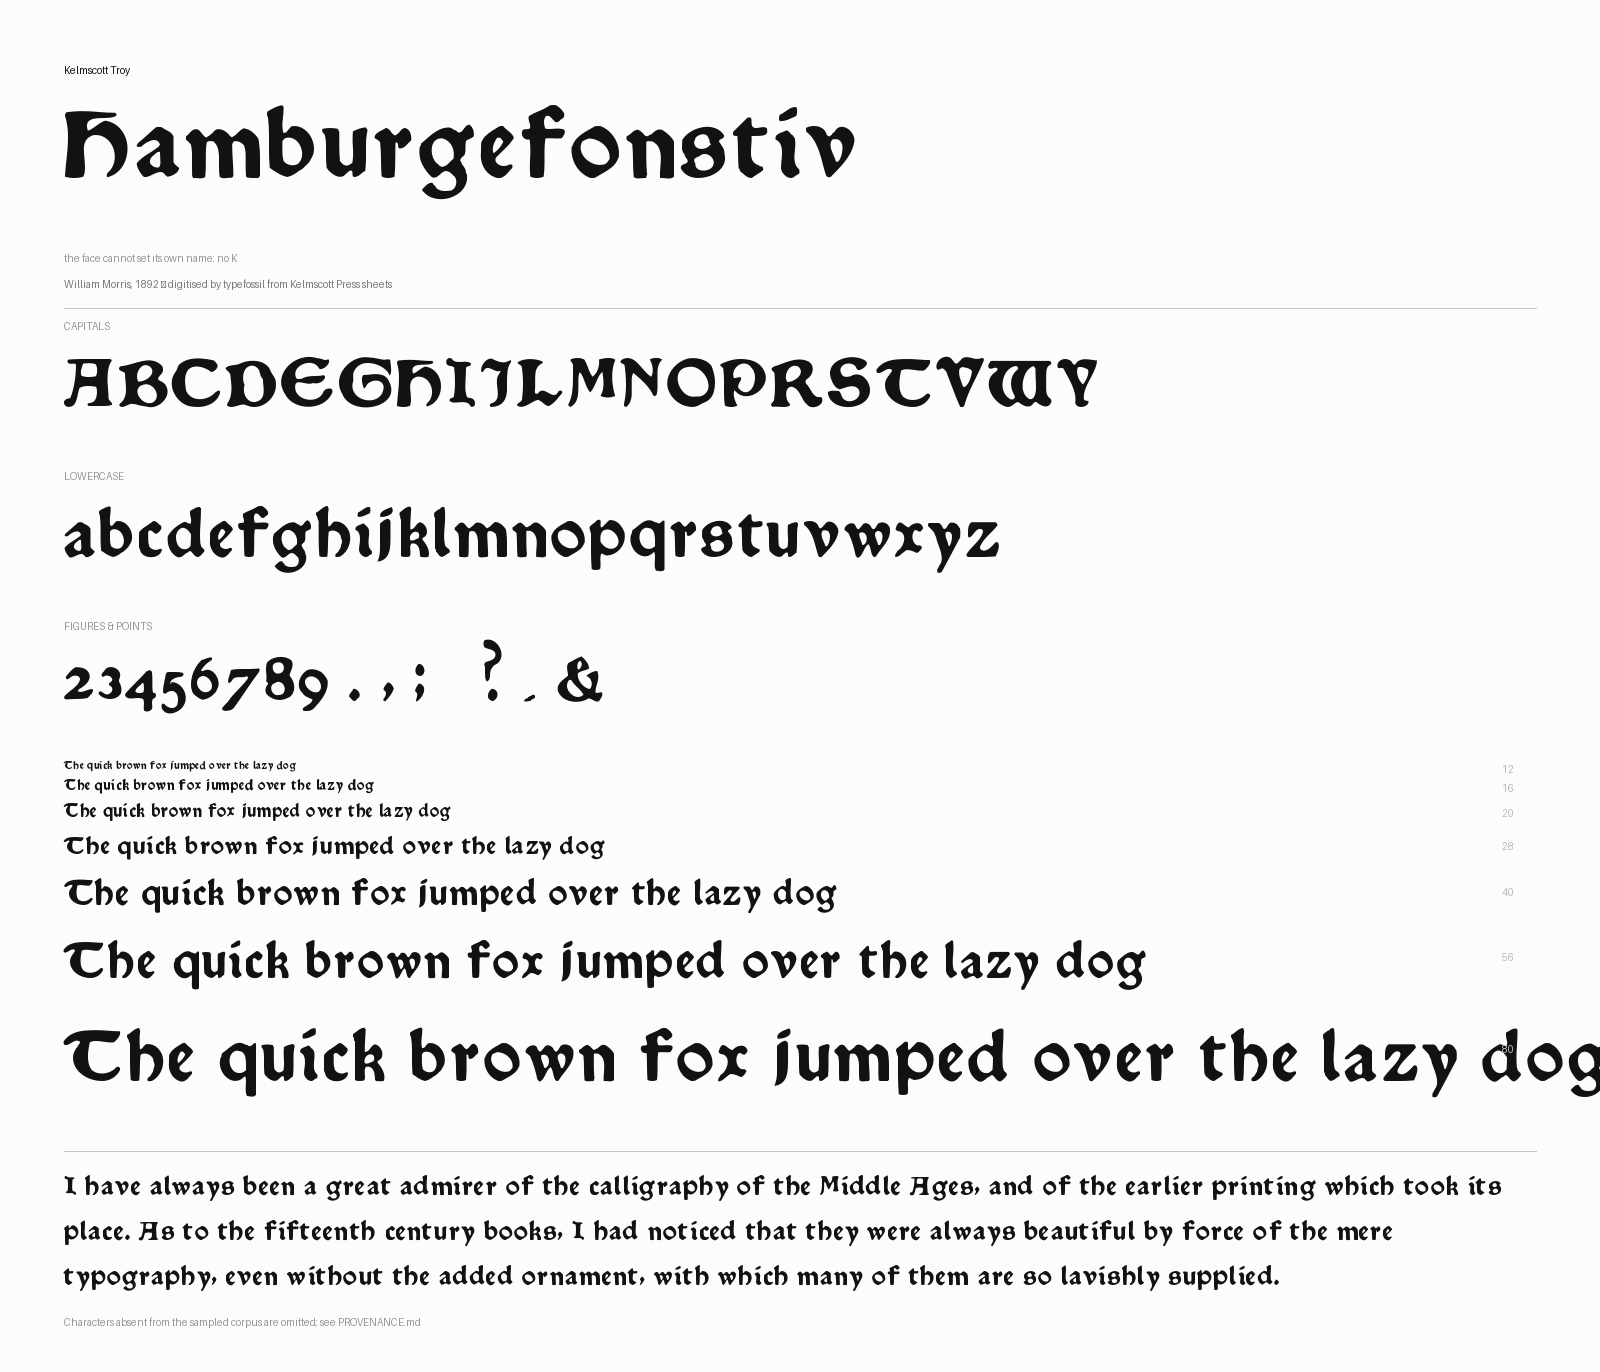
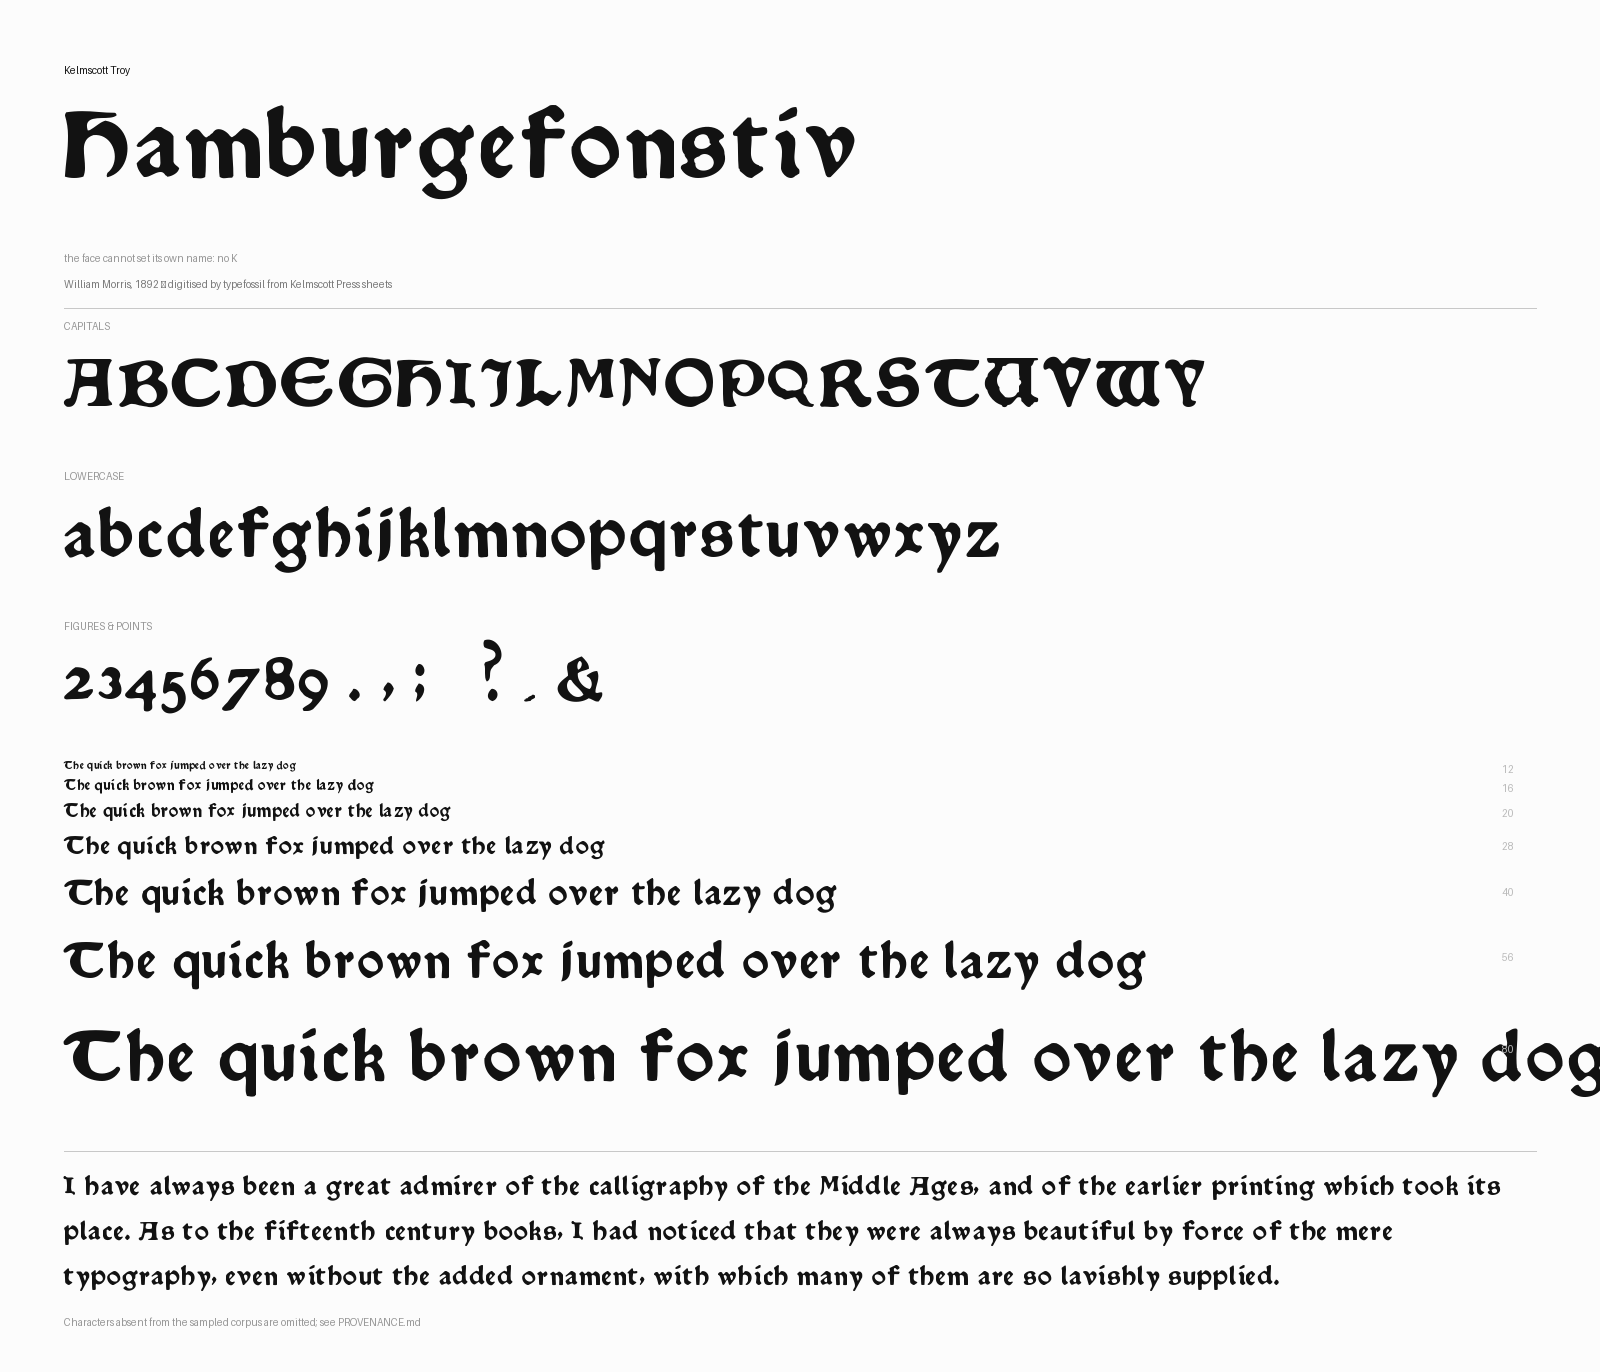
Read rare letters off the page instead of clustering for them
Clustering is the right tool for a letter printed thousands of times and the
wrong one for a letter printed three times: it needs a population to average,
and a rare capital is absorbed into a larger lookalike long before it forms a
cluster of its own. Every attempt to resolve Q by clustering failed -- at 700
clusters over 323,000 instances, at 450 over 107,000, and at 2,069 over 20,691.

Worse, the cap-shape filter that made the finer runs possible was excluding the
letter being hunted. It keeps instances whose width/height is at least 0.80,
calibrated on the capitals already held; Troy's Q descends, which raises its
height and drops it below the cut. The search was rejecting Q by construction.

pluck.py takes the other route: the transcription says which page, the eye says
where on it, and connected-component analysis takes it from there. Q came off
one page in three impressions, U off another in one. Both verified at full size.

Also worth recording: the transcription-to-leaf mapping drifts. Text offsets
predicted leaf 514 for a line actually printed on 519, so the earlier +/-1 page
window around each predicted leaf was fetching the wrong pages entirely -- which
is why several honest-looking "not in the corpus" findings were wrong.

Claude-Session: https://claude.ai/code/session_01T9i7wGxk73ZqUthNZ1CcxZ

Changed region(s): [[0.375, 0.2449, 0.75, 0.3061], [0.8125, 0.8571, 0.8438, 0.8878]]

diff --git a/typefossil/pluck.py b/typefossil/pluck.py
@@ -1,0 +1,55 @@
+"""Pull a named glyph straight off a page by pointing at it.
+
+Clustering is the right tool for a letter printed thousands of times and the
+wrong one for a letter printed three times: it needs a population to average,
+and a rare capital is absorbed into a larger lookalike long before it forms a
+cluster of its own. Worse, a filter tuned on the letters you *have* can exclude
+the one you are hunting -- Troy's 'Q' descends, so a width/height test
+calibrated on non-descending capitals rejects it.
+
+Reading the page and naming the coordinates avoids both. The transcription says
+which page; the eye says where; this takes it from there.
+"""
+import numpy as np
+from PIL import Image
+from scipy import ndimage
+
+
+def pluck(path, seed_xy, frame_h=320, frame_w=220, baseline_row=232,
+          window=340, min_area=400, x_height=60):
+    """Return a baseline-anchored frame holding the glyph nearest ``seed_xy``."""
+    sx, sy = seed_xy
+    im = Image.open(path).convert("L")
+    x0, y0 = max(0, sx - window // 2), max(0, sy - window // 2)
+    a = np.asarray(im.crop((x0, y0, x0 + window, y0 + window)), np.float32)
+    ink = a < ndimage.uniform_filter(a, size=81) - 16
+    lbl, n = ndimage.label(ink)
+    if n == 0:
+        return None
+    sizes = ndimage.sum(ink, lbl, range(1, n + 1))
+    best, best_d = None, 1e9
+    cx, cy = sx - x0, sy - y0
+    for i, sl in enumerate(ndimage.find_objects(lbl)):
+        if sizes[i] < min_area:
+            continue
+        h = sl[0].stop - sl[0].start
+        if h < x_height * 1.1:              # must be at least capital height
+            continue
+        mx = (sl[1].start + sl[1].stop) / 2
+        my = (sl[0].start + sl[0].stop) / 2
+        d = (mx - cx) ** 2 + (my - cy) ** 2
+        if d < best_d:
+            best, best_d = (i + 1, sl), d
+    if best is None:
+        return None
+    lid, sl = best
+    r0, r1, c0, c1 = sl[0].start, sl[0].stop, sl[1].start, sl[1].stop
+    sub = (lbl[r0:r1, c0:c1] == lid)
+    fr = np.zeros((frame_h, frame_w), np.float32)
+    # Seat by the glyph's own cap height: these are plucked one at a time, so
+    # there is no line of neighbours to take a baseline from.
+    top = baseline_row - int((r1 - r0) * 0.82)
+    if top < 0 or top + (r1 - r0) >= frame_h or (c1 - c0) > frame_w - 8:
+        return None
+    fr[top:top + (r1 - r0), 4:4 + (c1 - c0)] = sub
+    return fr

diff --git a/tests/test_pipeline.py b/tests/test_pipeline.py
@@ -250,3 +250,21 @@ def test_kmeans_is_blocked_and_matches_across_block_sizes():
     a = cluster.kmeans(P, 3, seed=1, block=10)
     b = cluster.kmeans(P, 3, seed=1, block=10_000)
     assert (a == b).all()
+
+
+def test_pluck_finds_the_glyph_nearest_a_seed(tmp_path=None):
+    """Reading a page and naming coordinates has to survive a neighbour."""
+    import pathlib, tempfile
+    import numpy as np
+    from PIL import Image
+    from typefossil import pluck as pl
+    tmp_path = pathlib.Path(tmp_path or tempfile.mkdtemp())
+    page = np.full((600, 600), 240, np.uint8)
+    page[200:300, 100:180] = 20          # the target
+    page[200:300, 400:480] = 20          # a decoy far away
+    p = tmp_path / "page.png"
+    Image.fromarray(page).save(p)
+    fr = pl.pluck(str(p), (140, 250), x_height=60, min_area=200)
+    assert fr is not None
+    cols = np.where((fr > 0.5).any(axis=0))[0]
+    assert len(cols) and (cols[-1] - cols[0] + 1) <= 90     # one glyph, not both

diff --git a/typefossil/__init__.py b/typefossil/__init__.py
@@ -1,6 +1,6 @@
 """Recover a working digital typeface from photographs of a printed book."""
 
-from . import build, cluster, compose, extract, fetch, specimen, trace
+from . import build, cluster, compose, extract, fetch, pluck, specimen, trace
 
-__all__ = ["build", "cluster", "compose", "extract", "fetch", "specimen", "trace"]
+__all__ = ["build", "cluster", "compose", "extract", "fetch", "pluck", "specimen", "trace"]
 __version__ = "0.1.0"
